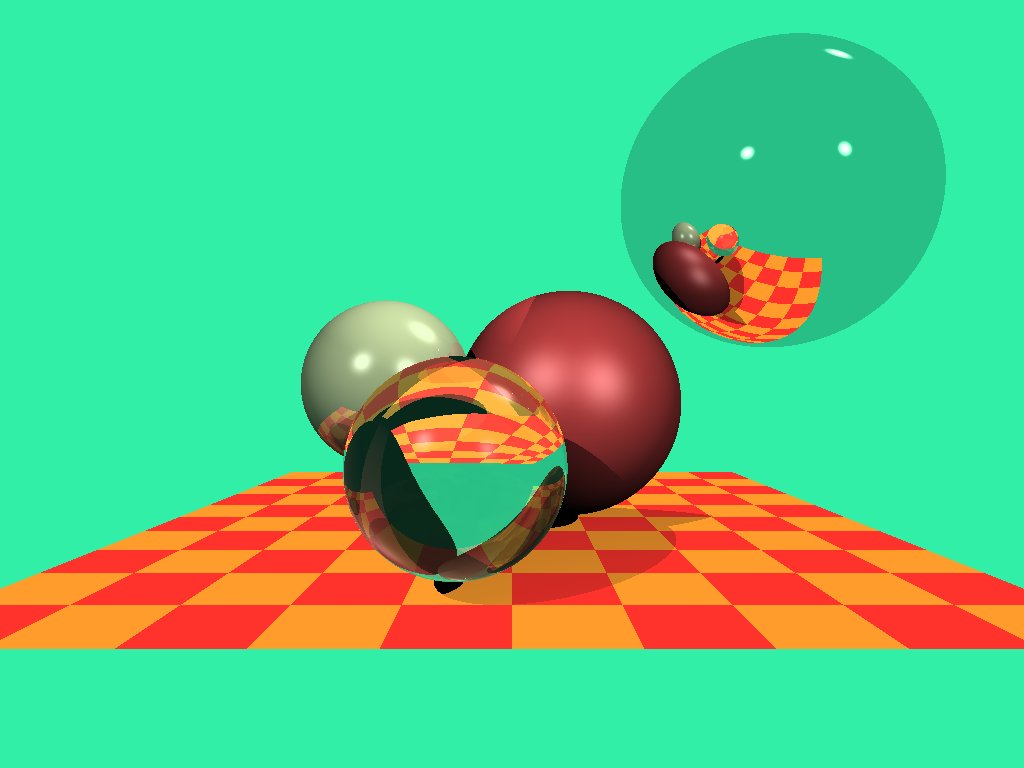
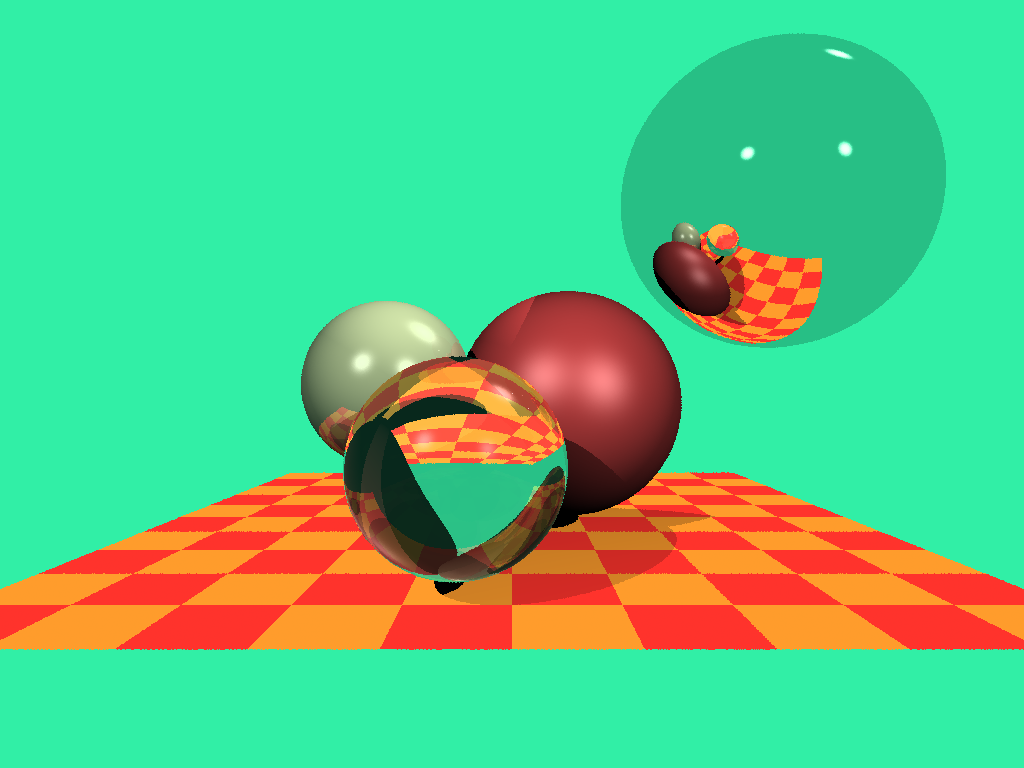
modularized

Changed region(s): [[0.4688, 0.7188, 0.5, 0.75]]

diff --git a/src/main.rs b/src/main.rs
@@ -2,56 +2,16 @@ use rayon::prelude::*; // For parallelization
 use std::fs::File; // For writing to a file
 use std::io::prelude::*; // For writing to a file
 
+mod constants;
 mod math;
 mod primitive;
 
-// Materials
-const IVORY: primitive::Material = primitive::Material::new(
-    1.0,
-    [0.9, 0.5, 0.1, 0.0],
-    math::Vec3::new(0.4, 0.4, 0.3),
-    50.0,
-);
+use rand::Rng;
 
-const GLASS: primitive::Material = primitive::Material::new(
-    1.5,
-    [0.0, 0.9, 0.1, 0.8],
-    math::Vec3::new(0.6, 0.7, 0.8),
-    125.0,
-);
-
-const RED_RUBBER: primitive::Material = primitive::Material::new(
-    1.0,
-    [1.4, 0.3, 0.0, 0.0],
-    math::Vec3::new(0.3, 0.1, 0.1),
-    10.0,
-);
-
-const MIRROR: primitive::Material = primitive::Material::new(
-    1.0,
-    [0.0, 16.0, 0.8, 0.0],
-    math::Vec3::new(1.0, 1.0, 1.0),
-    1425.0,
-);
-
-// Spheres in the scene
-const SPHERES: [primitive::Sphere; 4] = [
-    primitive::Sphere::new(math::Vec3::new(-3.0, 0.0, -16.0), 2.0, IVORY),
-    primitive::Sphere::new(math::Vec3::new(-1.0, -1.5, -12.0), 2.0, GLASS),
-    primitive::Sphere::new(math::Vec3::new(1.5, -0.5, -18.0), 3.0, RED_RUBBER),
-    primitive::Sphere::new(math::Vec3::new(7.0, 5.0, -18.0), 4.0, MIRROR),
-];
-
-// Lights in the scene
-const LIGHTS: [math::Vec3; 3] = [
-    math::Vec3::new(-20.0, 20.0, 20.0),
-    math::Vec3::new(30.0, 50.0, -25.0),
-    math::Vec3::new(30.0, 20.0, 30.0),
-];
-
-const BACKGROUND_COLOR: math::Vec3 = math::Vec3::new(0.1955, 0.9377, 0.6533);
-const BOX_COLOR1: math::Vec3 = math::Vec3::new(0.9822, 0.6044, 0.1733);
-const BOX_COLOR2: math::Vec3 = math::Vec3::new(0.9822, 0.2, 0.1733);
+fn random_f64() -> f64 {
+    let mut rng = rand::thread_rng();
+    rng.gen::<f64>()
+}
 
 // reflection of an incident vector i around a normal n
 fn reflect(i: &math::Vec3, n: &math::Vec3) -> math::Vec3 {
@@ -91,12 +51,13 @@ fn ray_sphere_intersect(
     }
 
     let thc: f64 = (radius_sq - d2).sqrt();
-    let t0: f64 = tca - thc;
-    let t1: f64 = tca + thc;
 
+    let t0: f64 = tca - thc;
     if t0 > 0.001 {
         return (true, t0);
     }
+
+    let t1: f64 = tca + thc;
     if t1 > 0.001 {
         return (true, t1);
     }
@@ -111,12 +72,11 @@ fn scene_intersect(
     let mut pt: math::Vec3 = math::Vec3::void();
     let mut n: math::Vec3 = math::Vec3::void();
     let mut material: primitive::Material = primitive::Material::void();
-
     let mut nearest_dist: f64 = std::f64::MAX;
 
     if dir.y.abs() > 0.001 {
-        let d = -(orig.y + 4.0) / dir.y;
-        let p = *orig + *dir * d;
+        let d: f64 = -(orig.y + 4.0) / dir.y;
+        let p: math::Vec3 = *orig + *dir * d;
 
         if d > 0.001 && d < nearest_dist && p.x.abs() < 10.0 && p.z < -10.0 && p.z > -30.0 {
             nearest_dist = d;
@@ -124,14 +84,14 @@ fn scene_intersect(
             n = math::Vec3::new(0.0, 1.0, 0.0);
             material.diffuse_color =
                 if ((0.5 * pt.x + 1000.0) as i32 + (0.5 * pt.z) as i32) & 1 == 1 {
-                    BOX_COLOR1
+                    constants::BOX_COLOR1
                 } else {
-                    BOX_COLOR2
+                    constants::BOX_COLOR2
                 };
         }
     }
 
-    for sphere in &SPHERES {
+    for sphere in &constants::SPHERES {
         let (intersection, d): (bool, f64) = ray_sphere_intersect(orig, dir, &sphere);
         if !intersection || d > nearest_dist {
             continue;
@@ -150,7 +110,7 @@ fn cast_ray(orig: &math::Vec3, dir: &math::Vec3, depth: u32) -> math::Vec3 {
     let (hit, point, n, material): (bool, math::Vec3, math::Vec3, primitive::Material) =
         scene_intersect(orig, dir);
     if depth > 5 || !hit {
-        return BACKGROUND_COLOR;
+        return constants::BACKGROUND_COLOR;
     }
 
     let reflect_dir: math::Vec3 = reflect(dir, &n).normalized();
@@ -161,7 +121,7 @@ fn cast_ray(orig: &math::Vec3, dir: &math::Vec3, depth: u32) -> math::Vec3 {
     let mut diffuse_light_intensity: f64 = 0.0;
     let mut specular_light_intensity: f64 = 0.0;
 
-    for light in &LIGHTS {
+    for light in &constants::LIGHTS {
         let light_dir: math::Vec3 = (*light - point).normalized();
 
         let (hit, shadow_pt, _, _): (bool, math::Vec3, math::Vec3, primitive::Material) =
@@ -198,8 +158,8 @@ fn main() {
         .par_iter_mut()
         .enumerate()
         .for_each(|(pix, pixel)| {
-            let dir_x: f64 = ((pix % WIDTH) as f64 + 0.5) - (WIDTH as f64 / 2.0);
-            let dir_y: f64 = -((pix / WIDTH) as f64 + 0.5) + (HEIGHT as f64 / 2.0);
+            let dir_x: f64 = ((pix % WIDTH) as f64 + random_f64() / 2.0) - (WIDTH as f64 / 2.0);
+            let dir_y: f64 = -((pix / WIDTH) as f64 + random_f64() / 2.0) + (HEIGHT as f64 / 2.0);
             let dir: math::Vec3 = math::Vec3::new(dir_x, dir_y, dir_z).normalized();
 
             *pixel = cast_ray(&math::Vec3::void(), &dir, 0);

diff --git a/src/constants.rs b/src/constants.rs
@@ -1,0 +1,50 @@
+use crate::math;
+use crate::primitive;
+
+// Materials
+pub(crate) const IVORY: primitive::Material = primitive::Material::new(
+    1.0,
+    [0.9, 0.5, 0.1, 0.0],
+    math::Vec3::new(0.4, 0.4, 0.3),
+    50.0,
+);
+
+pub(crate) const GLASS: primitive::Material = primitive::Material::new(
+    1.5,
+    [0.0, 0.9, 0.1, 0.8],
+    math::Vec3::new(0.6, 0.7, 0.8),
+    125.0,
+);
+
+pub(crate) const RED_RUBBER: primitive::Material = primitive::Material::new(
+    1.0,
+    [1.4, 0.3, 0.0, 0.0],
+    math::Vec3::new(0.3, 0.1, 0.1),
+    10.0,
+);
+
+pub(crate) const MIRROR: primitive::Material = primitive::Material::new(
+    1.0,
+    [0.0, 16.0, 0.8, 0.0],
+    math::Vec3::new(1.0, 1.0, 1.0),
+    1425.0,
+);
+
+// Spheres in the scene
+pub(crate) const SPHERES: [primitive::Sphere; 4] = [
+    primitive::Sphere::new(math::Vec3::new(-3.0, 0.0, -16.0), 2.0, IVORY),
+    primitive::Sphere::new(math::Vec3::new(-1.0, -1.5, -12.0), 2.0, GLASS),
+    primitive::Sphere::new(math::Vec3::new(1.5, -0.5, -18.0), 3.0, RED_RUBBER),
+    primitive::Sphere::new(math::Vec3::new(7.0, 5.0, -18.0), 4.0, MIRROR),
+];
+
+// Lights in the scene
+pub(crate) const LIGHTS: [math::Vec3; 3] = [
+    math::Vec3::new(-20.0, 20.0, 20.0),
+    math::Vec3::new(30.0, 50.0, -25.0),
+    math::Vec3::new(30.0, 20.0, 30.0),
+];
+
+pub(crate) const BACKGROUND_COLOR: math::Vec3 = math::Vec3::new(0.1955, 0.9377, 0.6533);
+pub(crate) const BOX_COLOR1: math::Vec3 = math::Vec3::new(0.9822, 0.6044, 0.1733);
+pub(crate) const BOX_COLOR2: math::Vec3 = math::Vec3::new(0.9822, 0.2, 0.1733);
